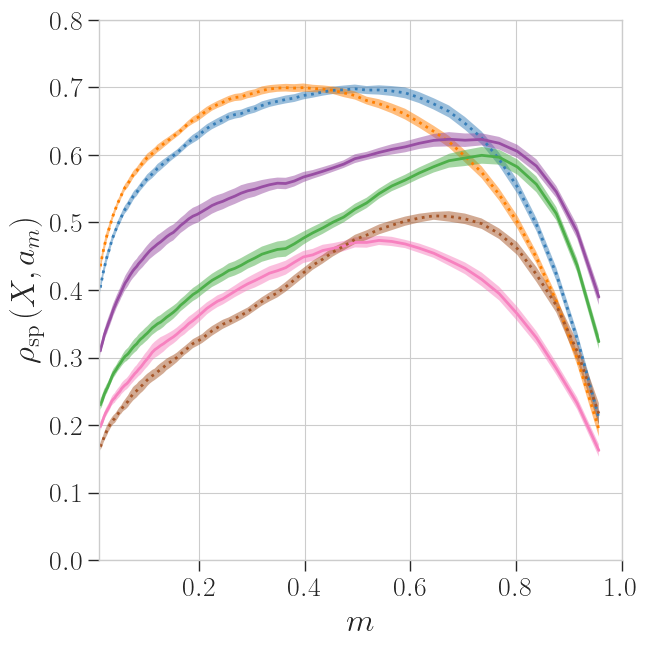
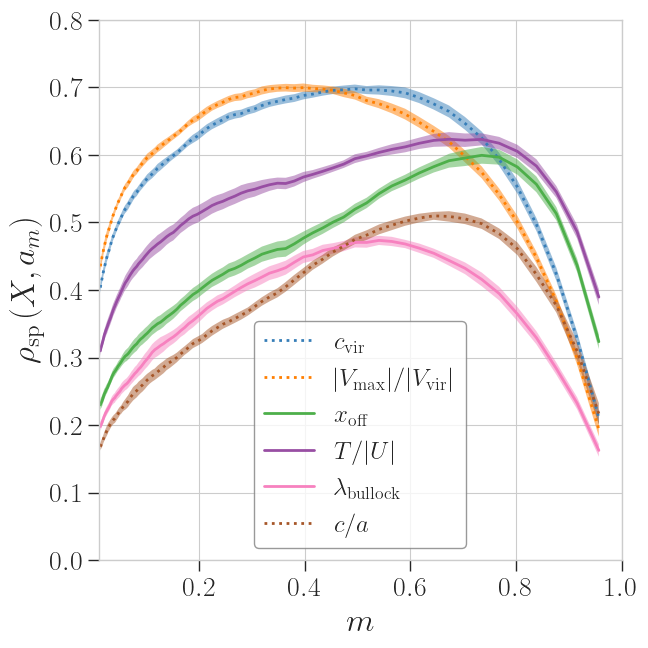
update figures legend

diff --git a/bin/figures.py b/bin/figures.py
@@ -86,7 +86,7 @@ class CorrelationMAH(Figure):
     lss = np.array(["-", ":"])  # pos vs neg correlations
 
     def _set_rc(self):
-        set_rc(figsize=(7, 7), fontsize=24, lgsize=14, lgloc="upper right")
+        set_rc(figsize=(7, 7), fontsize=24, lgsize=18, lgloc="upper right")
 
     def get_data(self):
         mah_data = get_mah(MAH_DIR, cutoff_missing=0.05, cutoff_particle=0.05)
@@ -214,8 +214,6 @@ class CorrelationMAH(Figure):
         ax2.set_xticklabels([np.nan] + fractional_tdyn)
         ax2.set_xlabel(r"$ \Delta \tau_{\rm dyn} / \tau_{\rm dyn}$", labelpad=10)
 
-        ax.legend(loc="best")
-
         ax.set_xlim(0.15, 1)
         ax2.set_xlim(0.15, 1)
         ax2.grid(None)
@@ -264,6 +262,7 @@ class CorrelationMAH(Figure):
         ax.set_xlabel("$m$")
         ax.tick_params(axis="both", which="major")
         ax.tick_params(axis="x", which="minor")
+        ax.legend(loc="best")
 
         return fig
 
